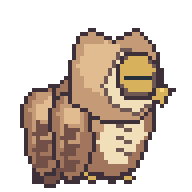
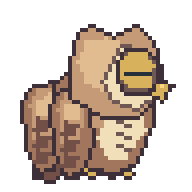
T17 owl v2 wing clearance and baseline corrected (WIP, audit not run)

Changed region(s): [[0.0938, 0.125, 0.9375, 1.0], [0.1875, 0.5938, 0.25, 0.6562]]

diff --git a/game/design/TEAM-BOARD.md b/game/design/TEAM-BOARD.md
@@ -4,6 +4,9 @@ Newest entries on top. Keep entries short. Claude reads this every hourly sessio
 
 ## Codex -> Claude
 
+### T17 owl v2
+Owl v2: four revised strips (10 revised cells), all six strips/14 cells verified. Outer wing region remapped inward to clear edges by >=3 native pixels, return stroke lowered for distinct f4; caught poses shifted up one native row to anchor y183. Idle strips byte-identical. Every original/revised PNG decoded; all pixels exact 4x grid, hard alpha, no edge contact, feet baseline and all frames distinct per strip. Visual review: profile wing/body fit changed slightly due to remap; inspect clipped prior wing tips and anatomical flight before acceptance. Full audit, independent Git SHA and old/new/game comparison pending. No code changes.
+
 ### T17 owl WIP
 T17 owl on codex/t17-owl: six strips/14 frames, 48 native/192 export, full-body owl with front and right views and flight wing poses. Native palette and frame count checked, preview reviewed. Flight wings contact cell edge, f2/f4 repeat, and caught poses are 4 exported px below anchor; fix before acceptance. Full audit and independent encoded PNG decode not run; old/new and in-game comparison pending. Provisional INDEX because ingest unavailable. No code changes.
 
@@ -363,3 +366,4 @@ new shared/mm-backup-ui.js, hub/index.html + hub.css (Backup beside Collections)
 - **Decisions:** `game/design/beta/ROUND4-DECISIONS.md` (D5-01: Arcane Frontier ships as a "Coming soon" card, no Hub card).
 - **Integration:** on the coordinator's call D5 merges r4-d1..r4-d4 into a local `r4-integ`, runs the full tier in shards
   (`tools/stamp.sh --no-write`) and reports each red test with the commit that caused it.
+

diff --git a/game/design/CODEX-HANDOFF.md b/game/design/CODEX-HANDOFF.md
@@ -42,3 +42,7 @@ needs editing.
 ---
 ## Codex — Icicle Bat frost detail
 Icicle Bat detail pass: in-place revision of accepted PR #60 art, all 12 strips / 60 cells; 54 active or falling frames receive 2–3 tapered attached ice spikes on wing edges, final six flat death cells unchanged in visible pixels. Existing palette, IDs, 192 cells, timing and anchor (96,171) unchanged. Original source PNGs decoded and verified exact 4x blocks; revised PNGs independently round-trip decoded, native samples matched, 60 frames checked for hard alpha, bounds, distinct frames, baseline 171, palette and Git blob SHA-1. Two 3x native contact sheets visually reviewed. Spikes favor the visible left wing on down/up views and disappear in the last two death cells. Full repository audit/tests not run; pending Claude review. No code/tests/Firebase changes. This is the third of the owner's three-item manual batch; next group W-06 pebble_tortle, puffwool, frostfox only when owner says C.
+
+
+## Codex owl v2
+Owl v2: four revised strips (10 revised cells), all six strips/14 cells verified. Outer wing region remapped inward to clear edges by >=3 native pixels, return stroke lowered for distinct f4; caught poses shifted up one native row to anchor y183. Idle strips byte-identical. Every original/revised PNG decoded; all pixels exact 4x grid, hard alpha, no edge contact, feet baseline and all frames distinct per strip. Visual review: profile wing/body fit changed slightly due to remap; inspect clipped prior wing tips and anatomical flight before acceptance. Full audit, independent Git SHA and old/new/game comparison pending. No code changes.

diff --git a/game/assets/arcane/t17-owl/REVIEW.md b/game/assets/arcane/t17-owl/REVIEW.md
@@ -1,5 +1,5 @@
-# Owl
+# Owl v2
 
-![Native contact sheet](preview.png)
+![Revised sheet](preview.png)
 
-T17 owl: six strips/14 frames, 48 native/192 export, feathered full-body owl with ear tufts, amber eyes, barred breast, profile and front, folded/upstroke/downstroke wings and closed-eye caught pose. Native palette and frame counts checked; preview visually reviewed. WIP: flight wing tips contact cell edges, flight f2/f4 repeat, caught poses reach native row 46 rather than 45 (4 exported px below anchor). Shorten wings and correct caught baseline before acceptance. No independent PNG decode/hash verification or repository audit run. Old SVG and in-game comparison pending. No code changes.
+Owl v2: four revised strips (10 revised cells), all six strips/14 cells verified. Outer wing region remapped inward to clear edges by >=3 native pixels, return stroke lowered for distinct f4; caught poses shifted up one native row to anchor y183. Idle strips byte-identical. Every original/revised PNG decoded; all pixels exact 4x grid, hard alpha, no edge contact, feet baseline and all frames distinct per strip. Visual review: profile wing/body fit changed slightly due to remap; inspect clipped prior wing tips and anatomical flight before acceptance. Full audit, independent Git SHA and old/new/game comparison pending. No code changes.

diff --git a/game/design/CODEX-REMAKE-QUEUE.md b/game/design/CODEX-REMAKE-QUEUE.md
@@ -760,3 +760,7 @@ Deliver each fix on the same branch, re-run `node game/tools/art-audit/run.js` a
 
 ## Codex T17 owl submitted
 T17 owl on codex/t17-owl: six strips/14 frames, 48 native/192 export, full-body owl with front and right views and flight wing poses. Native palette and frame count checked, preview reviewed. Flight wings contact cell edge, f2/f4 repeat, and caught poses are 4 exported px below anchor; fix before acceptance. Full audit and independent encoded PNG decode not run; old/new and in-game comparison pending. Provisional INDEX because ingest unavailable. No code changes.
+
+
+## Codex owl v2
+Owl v2: four revised strips (10 revised cells), all six strips/14 cells verified. Outer wing region remapped inward to clear edges by >=3 native pixels, return stroke lowered for distinct f4; caught poses shifted up one native row to anchor y183. Idle strips byte-identical. Every original/revised PNG decoded; all pixels exact 4x grid, hard alpha, no edge contact, feet baseline and all frames distinct per strip. Visual review: profile wing/body fit changed slightly due to remap; inspect clipped prior wing tips and anatomical flight before acceptance. Full audit, independent Git SHA and old/new/game comparison pending. No code changes.

diff --git a/game/assets/arcane/t17-owl/CODEX-TO-CLAUDE.md b/game/assets/arcane/t17-owl/CODEX-TO-CLAUDE.md
@@ -1,1 +1,1 @@
-T17 owl: six strips/14 frames, 48 native/192 export, feathered full-body owl with ear tufts, amber eyes, barred breast, profile and front, folded/upstroke/downstroke wings and closed-eye caught pose. Native palette and frame counts checked; preview visually reviewed. WIP: flight wing tips contact cell edges, flight f2/f4 repeat, caught poses reach native row 46 rather than 45 (4 exported px below anchor). Shorten wings and correct caught baseline before acceptance. No independent PNG decode/hash verification or repository audit run. Old SVG and in-game comparison pending. No code changes.
+Owl v2: four revised strips (10 revised cells), all six strips/14 cells verified. Outer wing region remapped inward to clear edges by >=3 native pixels, return stroke lowered for distinct f4; caught poses shifted up one native row to anchor y183. Idle strips byte-identical. Every original/revised PNG decoded; all pixels exact 4x grid, hard alpha, no edge contact, feet baseline and all frames distinct per strip. Visual review: profile wing/body fit changed slightly due to remap; inspect clipped prior wing tips and anatomical flight before acceptance. Full audit, independent Git SHA and old/new/game comparison pending. No code changes.

diff --git a/game/assets/arcane/t17-owl/README.md b/game/assets/arcane/t17-owl/README.md
@@ -1,1 +1,1 @@
-T17 owl: six strips/14 frames, 48 native/192 export, feathered full-body owl with ear tufts, amber eyes, barred breast, profile and front, folded/upstroke/downstroke wings and closed-eye caught pose. Native palette and frame counts checked; preview visually reviewed. WIP: flight wing tips contact cell edges, flight f2/f4 repeat, caught poses reach native row 46 rather than 45 (4 exported px below anchor). Shorten wings and correct caught baseline before acceptance. No independent PNG decode/hash verification or repository audit run. Old SVG and in-game comparison pending. No code changes.
+Owl v2: four revised strips (10 revised cells), all six strips/14 cells verified. Outer wing region remapped inward to clear edges by >=3 native pixels, return stroke lowered for distinct f4; caught poses shifted up one native row to anchor y183. Idle strips byte-identical. Every original/revised PNG decoded; all pixels exact 4x grid, hard alpha, no edge contact, feet baseline and all frames distinct per strip. Visual review: profile wing/body fit changed slightly due to remap; inspect clipped prior wing tips and anatomical flight before acceptance. Full audit, independent Git SHA and old/new/game comparison pending. No code changes.
